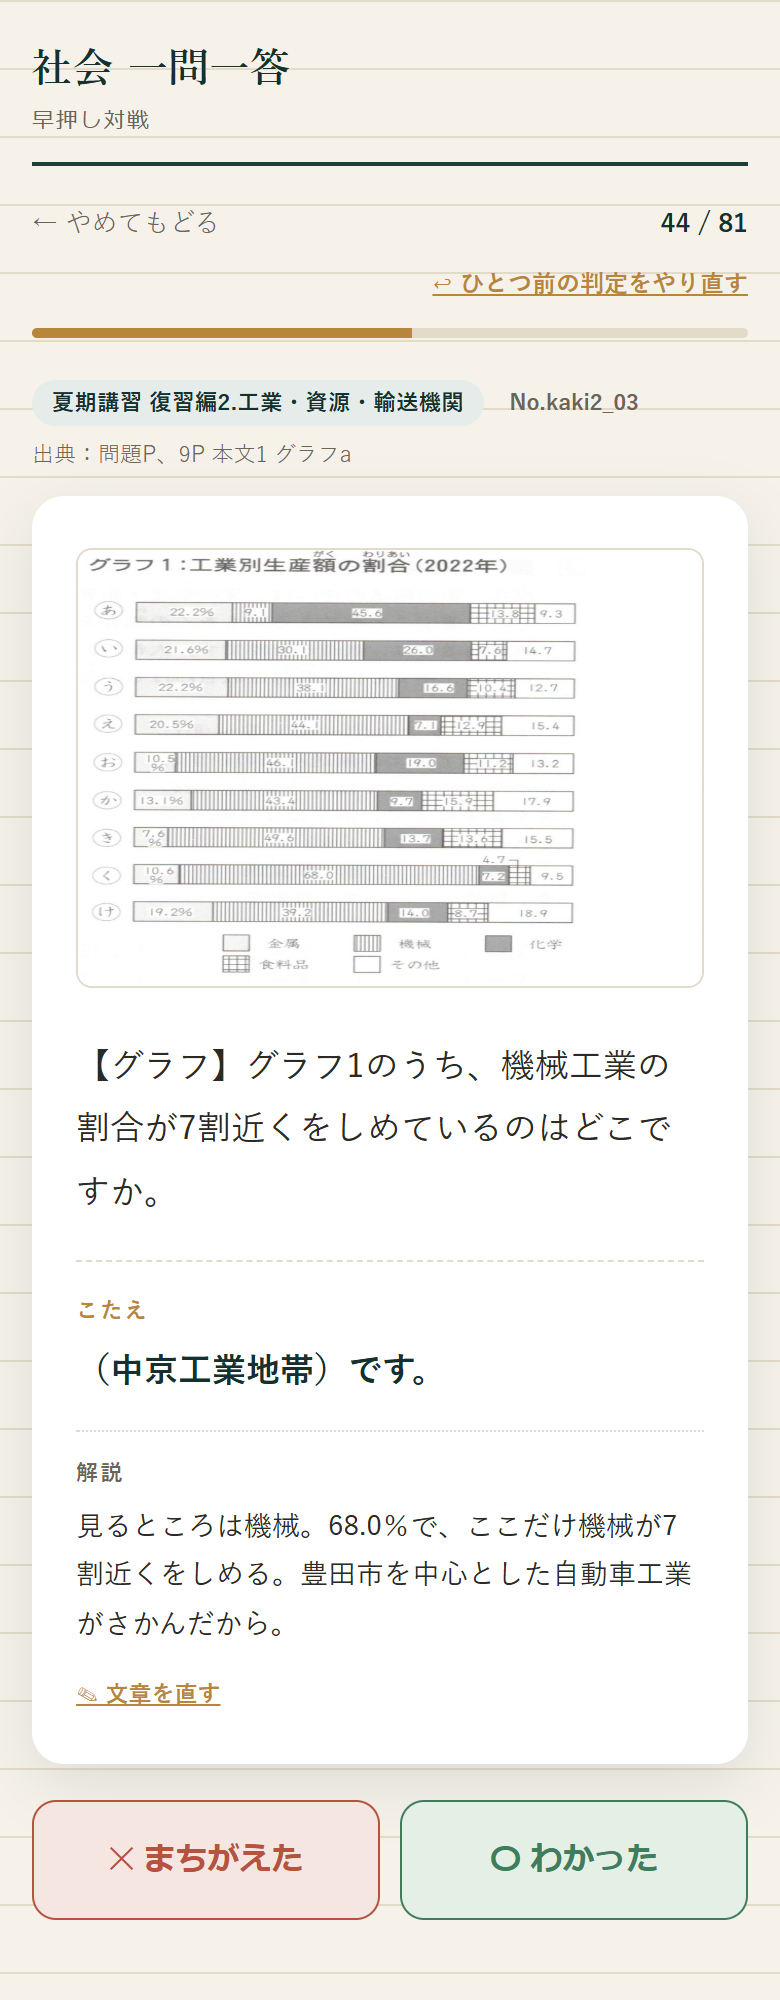
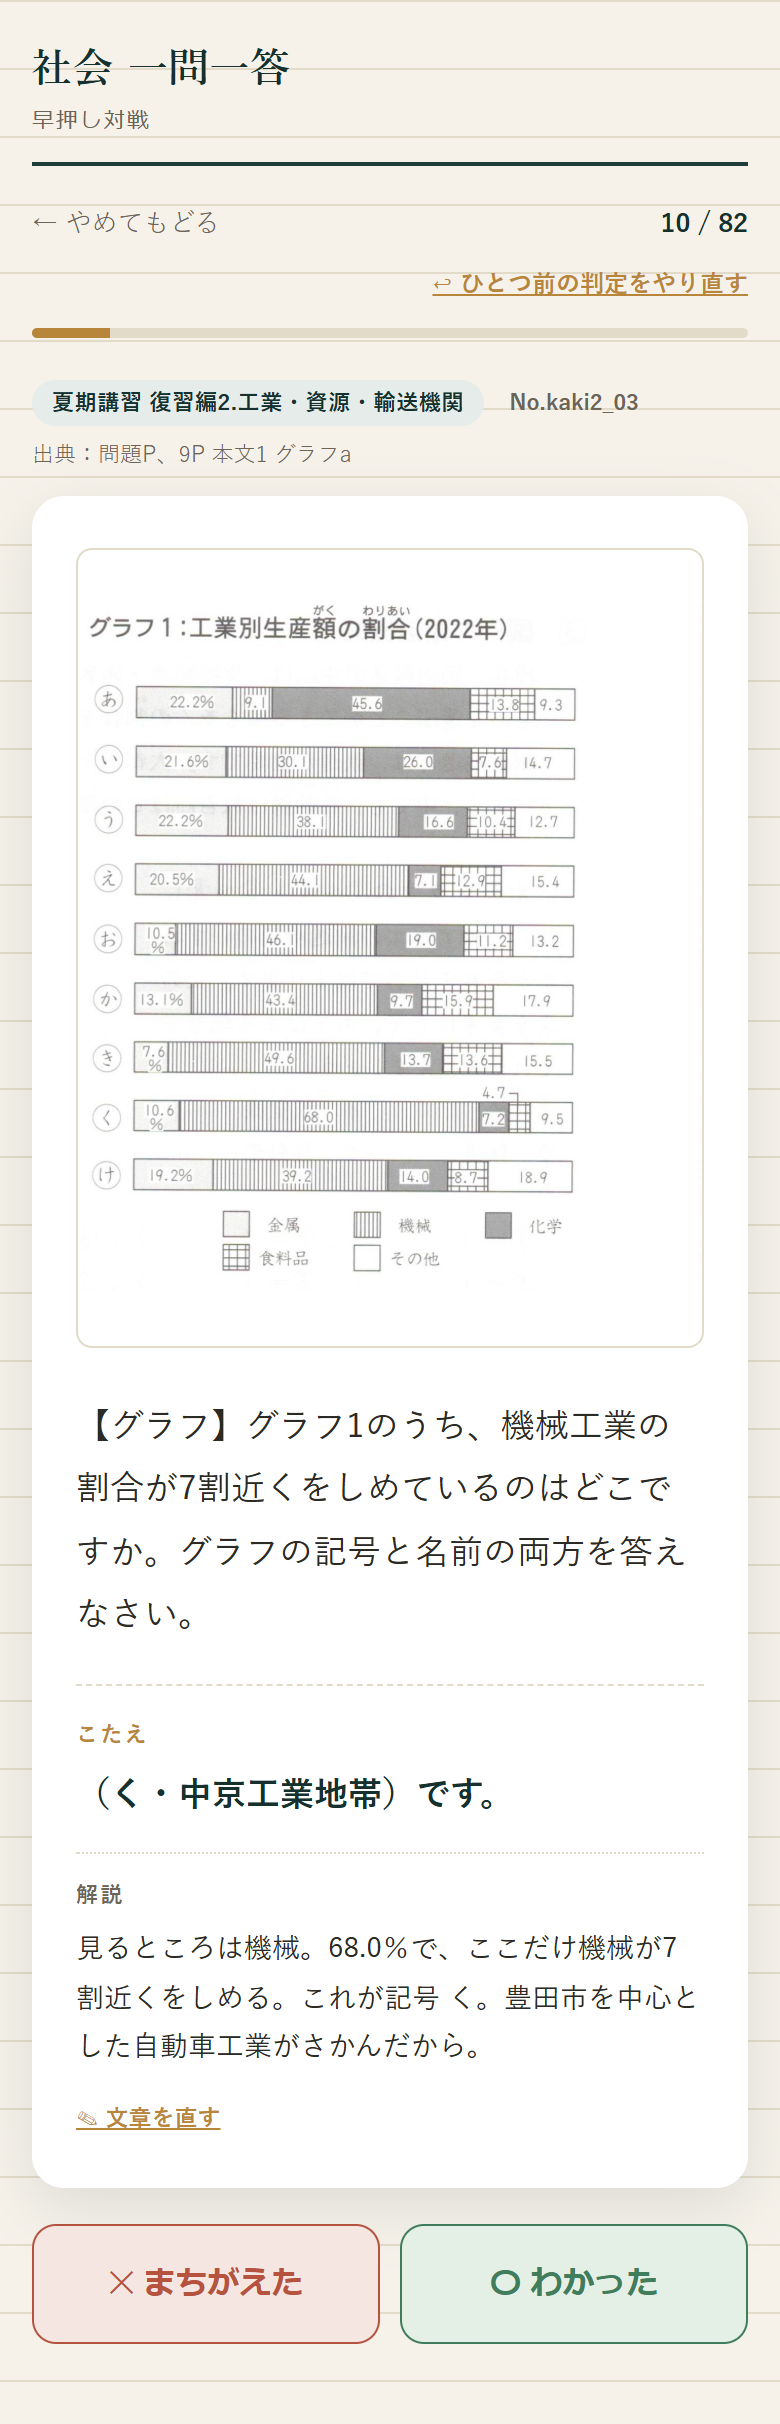
画像の上からスクロールできなかったのを直した（touch-action）
ユーザー報告「画像の上はスクロールが効かない」。原因は1行だった。

■ 何が起きていたか
`.img-wrap img` に `touch-action:none` が付いていた。これは
「この要素のタッチ操作は全部こちらで処理する」という宣言なので、
★**指が画像の上から動き始めたときのスクロールを、ブラウザが行わなくなる。**
問題文の画像は画面の大きな面積を占めるので、
「画像の上に指を置くと画面が動かない」という症状になっていた。

■ ★そこには掴む処理が無かった（none が要らなかった）
`solo-img`・`battle-img` に付いているリスナーは **click だけ**で、
ドラッグもピンチもしていない（拡大を開くだけ）。
ピンチ／パンは**拡大側の `.lightbox-stage`** に実装してある（pointerdown/move/up）。
裏取り: 問題一覧の画像は `touch-action` を指定しておらず、
**同じ click → openLightbox() で正常に動いていて、スクロールも効く。**
＝外しても壊れないことが、同じファイルの中で実証されていた。

■ 直し方: none → manipulation
スクロールとピンチは通し、ダブルタップ拡大だけ抑える。
行ごと消しても直るが、その場合★**ダブルタップ待ちの約300msの遅延が残る。**
1問20秒なので、タップで拡大が開くのが速いほうがよい。

⚠ **残る2つの `touch-action:none` は消していない。**
  `.lightbox-overlay` … 背面ページのスクロール抜けを止めている
  `.lightbox-stage img` … ここは本当にピンチ／パンを自前で実装している

■ 確認（★本物のタッチ操作で測った）
合成イベントでは native のスクロールが起きないので、
CDP の `Input.dispatchTouchEvent` で実際に指を置いて上へスワイプさせた
（`tools/mikaku/touch_probe.mjs` を新規作成）。
  直したあと: touch-action=manipulation / scrollY 0 → 88 / 拡大も開く
★**検査が鳴ることを確かめた（D-17）**: 直す前に戻すと
  touch-action=none / scrollY 0 → 0（スクロールしない）で落ちる。
拡大側のピンチも今までどおり動く（赤丸の層も変形が一致したまま追従）。
smoke-test 12件成功。

■ 見つけたのは claude-14
`index.html` は担当外なので原因だけ渡してくれた。診断は私が実物で検算した
（3か所の touch-action の役割・リスナーの棚卸し・一覧側との比較）。

Changed region(s): [[0.0308, 0.0, 0.9846, 0.961], [0.6462, 0.744, 0.8923, 0.837], [0.5538, 0.713, 0.6154, 0.744]]

diff --git a/index.html b/index.html
@@ -1312,7 +1312,17 @@
   /* ---- image lightbox (pinch/tap to zoom) ---- */
   .img-wrap img{
     cursor:zoom-in;
-    touch-action:none;
+    /* ★none にすると、画像の上から指を動かし始めたときに画面がスクロールしない。
+       問題文の画像は画面の大きな面積を占めるので、「画像の上はスクロールが効かない」
+       という症状になる（2026-09-12 ユーザー報告）。
+       ★ここには掴む処理が無い（solo-img・battle-img は click だけ。ピンチ／パンは
+       拡大側の .lightbox-stage に実装してある）ので、none は要らなかった。
+       裏取り: 問題一覧の画像は touch-action を指定しておらず、同じ click →
+       openLightbox() で正常に動いている。
+       manipulation にすると、スクロールとピンチは通し、ダブルタップ拡大だけ抑える。
+       行ごと消しても直るが、その場合ダブルタップ待ちの約300msの遅延が残る。
+       1問20秒なので、タップで拡大が開くのが速いほうがよい。 */
+    touch-action:manipulation;
   }
   .lightbox-overlay{
     display:none;
